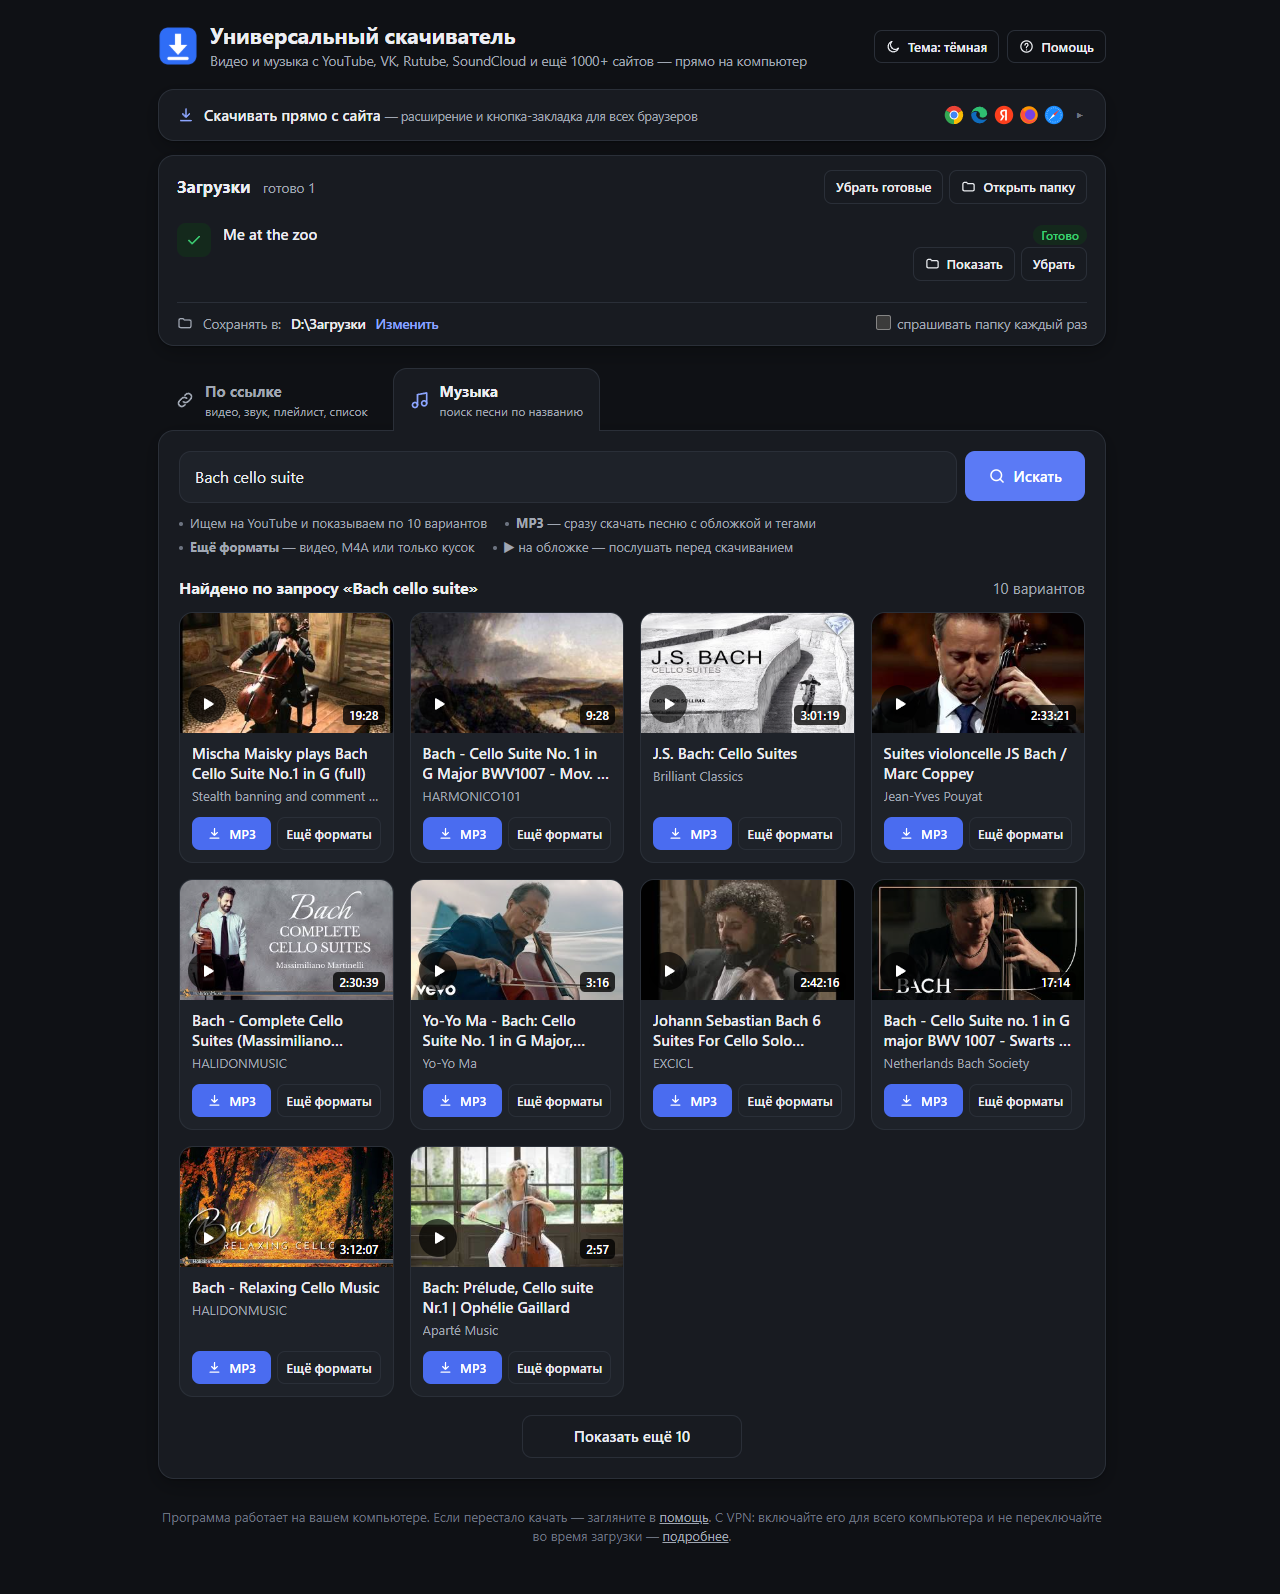
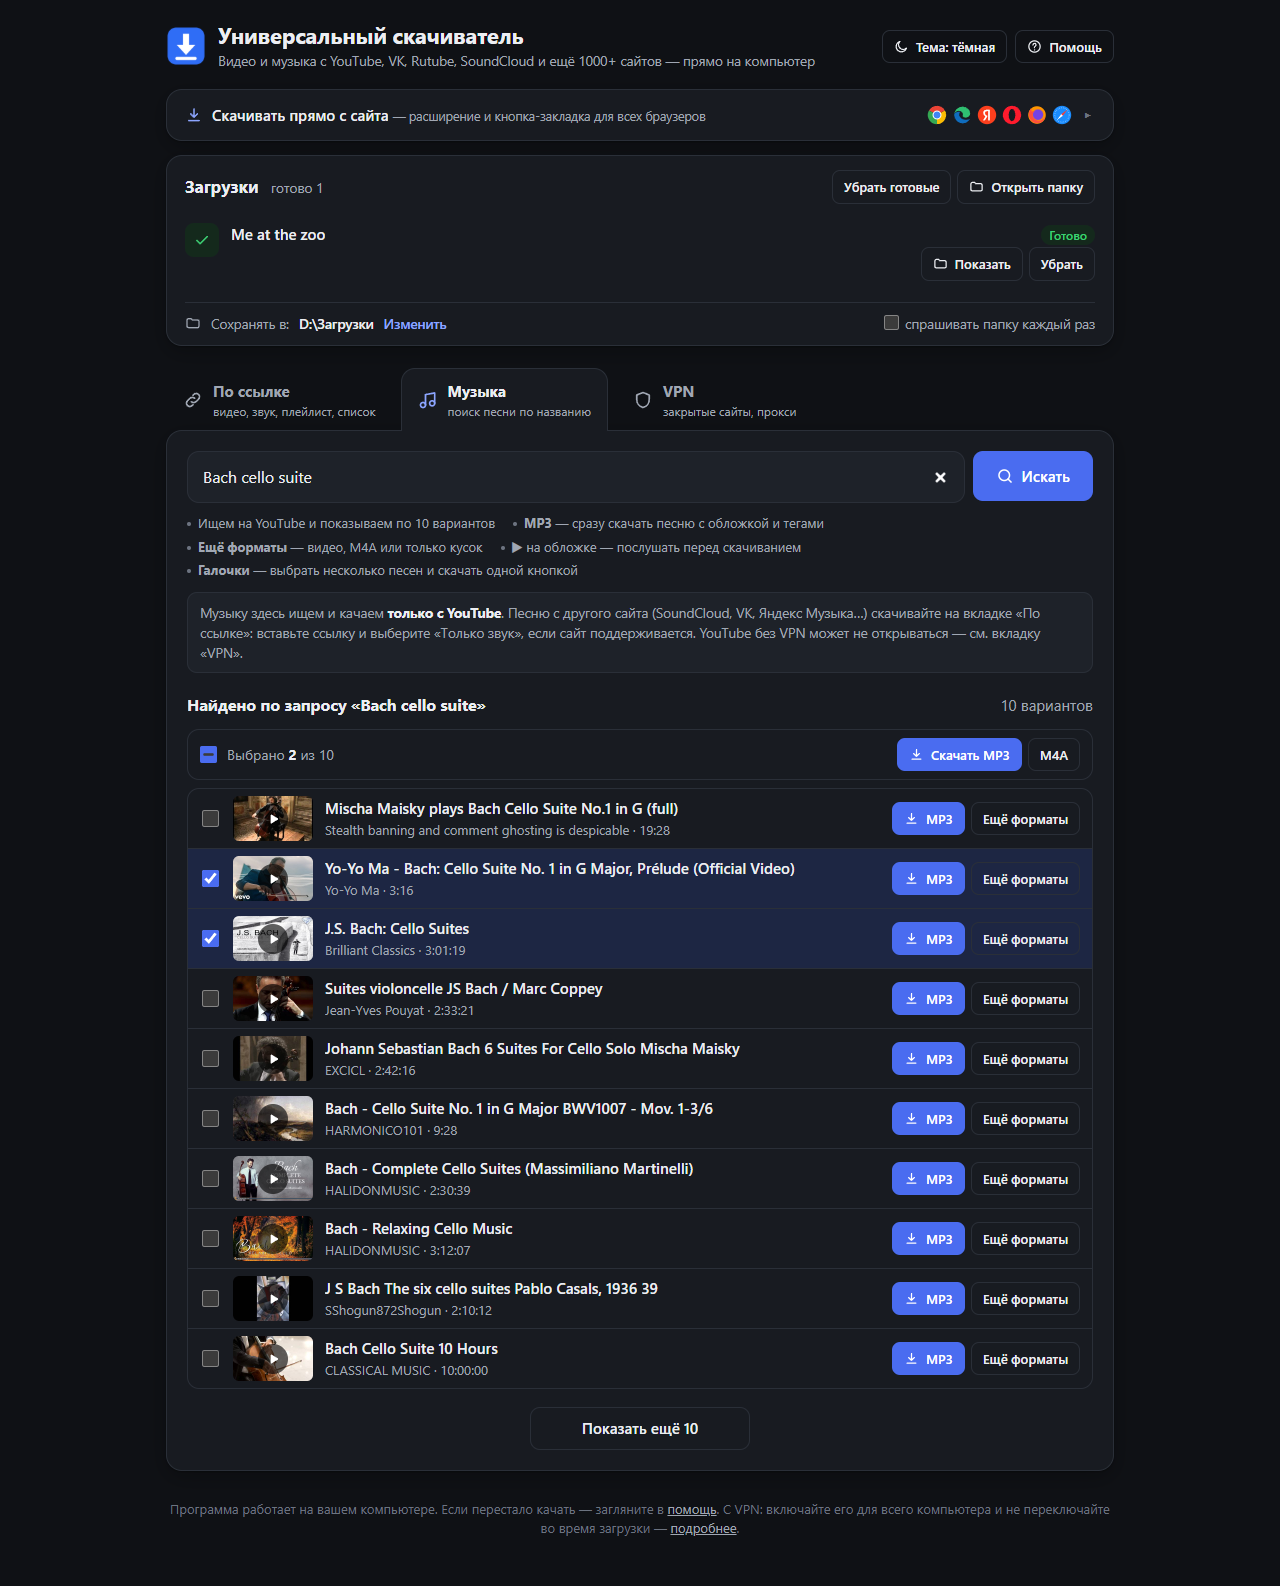
README: новые скриншоты версии 1.1
Компактная «Музыка» с галочками и полосой «Скачать MP3 / M4A», вкладка «VPN»
(новый снимок vpn.png), кнопка «Очистить», значок Оперы; подписи и alt-тексты.

diff --git a/README.md b/README.md
@@ -5,7 +5,7 @@
 
 Всё работает у вас на компьютере: без рекламы, без регистрации и без чужих серверов. Python ставить не нужно, программа установит всё нужное сама.
 
-![Главная страница: ссылка разобрана, видны варианты качества](docs/screenshots/link.png)
+![Главная страница: ссылка с YouTube разобрана, видны варианты качества MP4, MP3 и M4A, кнопка «Очистить», вкладки «По ссылке», «Музыка» и «VPN»; сверху плашка «Скачивать прямо с сайта» со значками Chrome, Edge, Яндекс Браузера, Оперы, Firefox и Safari](docs/screenshots/link.png)
 
 **[⬇ Скачать zip последней версии](https://github.com/OlegChe77/universal-downloader/releases/latest/download/universal-downloader.zip)** (`universal-downloader.zip`, сразу файл) · [страница релиза с описанием изменений](../../releases/latest)
 
@@ -15,7 +15,7 @@
 
 - **Видео по ссылке**: MP4 в выбранном качестве, от 144p до 4K. Видео и звук склеиваются сами.
 - **Только звук**: MP3 с обложкой и тегами («Исполнитель – Песня» берётся из названия ролика) или M4A без перекодирования.
-- **Поиск музыки по названию** (на YouTube): 10 вариантов с обложками и кнопкой «Показать ещё 10». MP3 качается в один щелчок.
+- **Поиск музыки по названию** (на YouTube): компактный список по 10 песен с обложками и кнопкой «Показать ещё 10». MP3 качается в один щелчок, а галочками можно выбрать несколько песен и скачать их одной кнопкой.
 - **Послушать перед скачиванием**: плеер внизу страницы с перемоткой, громкостью и переходом к следующей песне. Им можно управлять клавишами и кнопками мультимедиа на клавиатуре.
 - **Кусок видео**: скачать только отрезок «с–до», например одну песню из часового концерта.
 - **Плейлисты и списки ссылок**: целый плейлист или несколько ссылок (каждая с новой строки) качаются по очереди.
@@ -26,13 +26,17 @@
 - **Своя папка загрузок**, светлая и тёмная тема, понятные объяснения ошибок на русском.
 - **Сама обновляет yt-dlp** раз в сутки: сайты часто меняют защиту, и свежий yt-dlp это исправляет.
 
-| Музыка: поиск по названию | Прослушивание перед скачиванием |
+| Музыка: поиск по названию, галочки и «Скачать MP3 / M4A» | Прослушивание перед скачиванием |
 |---|---|
-| ![Поиск музыки](docs/screenshots/music.png) | ![Плеер внизу страницы](docs/screenshots/player.png) |
+| ![Вкладка «Музыка»: список из 10 песен, две отмечены галочками, сверху полоса «Выбрано 2 из 10» с кнопками «Скачать MP3» и «M4A»](docs/screenshots/music.png) | ![Плеер внизу страницы: обложка, название, перемотка, громкость и кнопка MP3; песня в списке отмечена как играющая](docs/screenshots/player.png) |
 
-| Тёмная тема | На узком экране |
+| Вкладка «VPN»: прокси для закрытых сайтов | Тёмная тема |
 |---|---|
-| ![Тёмная тема](docs/screenshots/dark.png) | ![Узкое окно](docs/screenshots/phone.png) |
+| ![Вкладка «VPN»: что сейчас с прокси, поле адреса, кнопки «Найти» и «Сохранить», галочка «все сайты через прокси»](docs/screenshots/vpn.png) | ![Тёмная тема: «Музыка» с выбранными песнями](docs/screenshots/dark.png) |
+
+| На узком экране |
+|---|
+| <img src="docs/screenshots/phone.png" alt="Узкое окно: вкладки, поиск музыки и полоса выбора песен в одну колонку" width="390"> |
 
 ---
 
@@ -112,7 +116,7 @@
 - Значок не появляется: запустите `Запуск.bat`, он покажет в окне, что не так. Ошибки самой программы пишутся в `program.log`.
 - Чтобы переустановить всё начисто, закройте программу (значок → «Выход»), удалите папки `python` и `bin` и запустите `Запуск.bat`.
 
-<img src="docs/screenshots/help.png" alt="Страница «Помощь»" width="640">
+<img src="docs/screenshots/help.png" alt="Страница «Помощь»: проверка программы (yt-dlp, ffmpeg, JS-движок, Python, папка загрузок), кнопка «Обновить yt-dlp» и «Как пользоваться»" width="640">
 
 Некоторые сайты (например, Suno) yt-dlp не поддерживает намеренно, по юридическим причинам. Программа об этом скажет.
 
